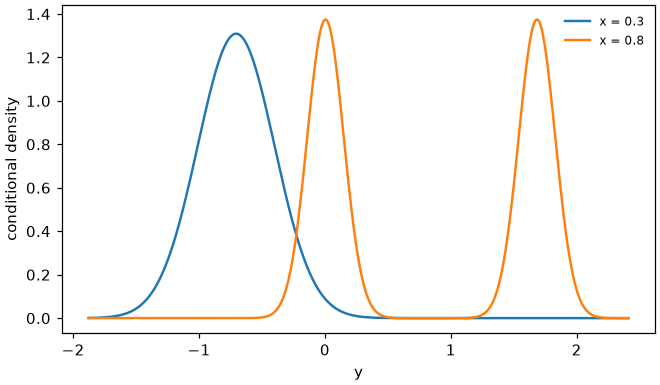
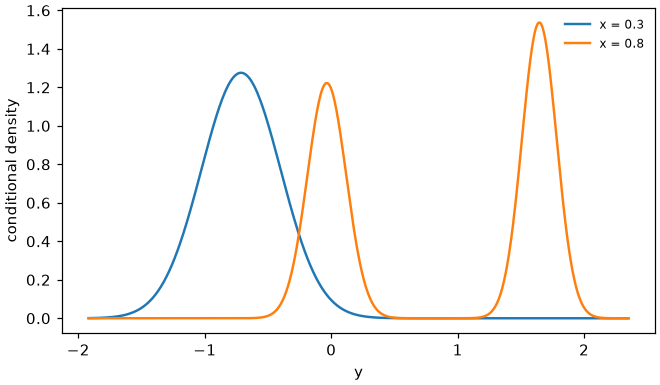
README: worked example with the data, a real agent run and the comparison with the true density

diff --git a/examples/plot_example.py b/examples/plot_example.py
@@ -1,0 +1,51 @@
+"""Figures of the README example (docs/example_data.png, docs/example_fit.png): the data of
+examples/branched.csv, and the estimate of the run in examples/example_run against the true
+conditional density. Run from the repository root."""
+from pathlib import Path
+
+import matplotlib
+matplotlib.use("Agg")
+import matplotlib.pyplot as plt
+import numpy as np
+import pandas as pd
+from scipy import stats
+
+import adr
+
+ROOT = Path(__file__).resolve().parents[1]
+df = pd.read_csv(ROOT / "examples" / "branched.csv")
+fit = adr.load(ROOT / "examples" / "example_run")
+
+
+def true_density(y, x):
+    m1, m2 = 10 * x * (x - .5) * (1.5 - x), 10 * x * (x - .5) * (.8 - x)
+    s = .3 * (1.3 - x)
+    return stats.norm.pdf(y, m1, s) if x < .5 else .5 * (stats.norm.pdf(y, m1, s) + stats.norm.pdf(y, m2, s))
+
+
+# the data
+fig, ax = plt.subplots(figsize=(6, 3.6), layout="constrained")
+ax.scatter(df.x, df.y, s=5, color="0.25", alpha=.5, linewidths=0)
+ax.set(xlabel="x", ylabel="y", title="examples/branched.csv: 1,000 observations")
+fig.savefig(ROOT / "docs" / "example_data.png", dpi=150)
+plt.close(fig)
+
+# the estimate against the truth
+fig, axes = plt.subplots(1, 2, figsize=(11, 3.8), layout="constrained",
+                         gridspec_kw={"width_ratios": [1.15, 1]})
+gx = np.linspace(df.x.min(), df.x.max(), 150)
+gy = np.linspace(df.y.min() - .3, df.y.max() + .3, 250)
+dens = np.array([np.exp(np.asarray(fit.distribution({"x": g}).logpdf(gy))) for g in gx])
+axes[0].pcolormesh(gx, gy, (dens / dens.max(axis=1, keepdims=True)).T, cmap="Blues", shading="auto")
+axes[0].scatter(df.x, df.y, s=3, color="black", alpha=.35, linewidths=0)
+axes[0].set(xlabel="x", ylabel="y", title="Estimated conditional density (scaled at each x) and data")
+yy = np.linspace(-2.2, 2.6, 600)
+for k, x0 in enumerate([0.3, 0.8]):
+    axes[1].plot(yy, true_density(yy, x0), color=f"C{k}", lw=2.2, alpha=.45, label=f"true, x = {x0}")
+    axes[1].plot(yy, np.exp(fit.distribution({"x": x0}).logpdf(yy)), color=f"C{k}", lw=1.4, ls="--",
+                 label=f"ADR, x = {x0}")
+axes[1].set(xlabel="y", ylabel="conditional density", title="True and estimated densities")
+axes[1].legend(frameon=False, fontsize=8)
+fig.savefig(ROOT / "docs" / "example_fit.png", dpi=150)
+plt.close(fig)
+print("wrote docs/example_data.png and docs/example_fit.png")

diff --git a/examples/example_run/model.py b/examples/example_run/model.py
@@ -1,0 +1,13 @@
+from adr.dist import Mixture, Normal, exp, log, sigmoid, maximum, abs
+
+
+def model(x):
+    t = x[0]
+    z = (t - 0.634068) / 0.087396
+    g = 0.087396 * (maximum(z, 0.0) + log(1.0 + exp(-abs(z))))
+    mu = (((((-47.466309) * t + 108.978164) * t + -86.112679) * t + 42.877879) * t + -9.908462) * t + -0.003241
+    sd1 = exp(((-1.325764) * t + -0.179717) * t + -0.994224)
+    sd2 = exp(((-0.858171) * t + -0.484573) * t + -0.935113)
+    w = sigmoid(0.114519)
+    return Mixture([w, 1.0 - w], [Normal(mu + -16.056164 * g, sd1), Normal(mu + -25.489746 * g, sd2)])
+

diff --git a/tests/test_adr.py b/tests/test_adr.py
@@ -178,3 +178,10 @@ def test_printing_and_plotting(tmp_path):
     q = fit.quantile({"x": 0.8}, [0.1, 0.5, 0.9])
     assert np.all(np.diff(q) > 0)
     fit.plot([{"x": 0.3}, {"x": 0.8}])
+
+
+def test_example_run_loads_and_matches_its_report():
+    fit = adr.load(EX / "example_run")
+    df = pd.read_csv(DATA)
+    assert np.all(np.isfinite(fit.logpdf(df.head(50))))
+    assert abs(fit.info["evaluation"]["nll"] - 0.2616) < 1e-3

diff --git a/README.md b/README.md
@@ -60,6 +60,69 @@ Without installing anything, you can ask Claude Code something like:
 
 Claude clones the repository and follows [CLAUDE.md](CLAUDE.md).
 
+## Example
+
+`examples/branched.csv` contains 1,000 simulated observations from the univariate design of the
+paper. For x < 0.5, y follows one noisy curve; from x = 0.5 on, it splits into two branches of
+equal probability, and the noise decreases with x:
+
+![The example data](docs/example_data.png)
+
+(The true model: X ~ Unif(0, 1); for x < 0.5, Y | x ~ N(m1(x), s(x)^2); for x >= 0.5, an equal
+mixture of N(m1(x), s(x)^2) and N(m2(x), s(x)^2), with m1(x) = 10x(x-0.5)(1.5-x),
+m2(x) = 10x(x-0.5)(0.8-x) and s(x) = 0.3(1.3-x).) The agent is not told any of this. We ran
+
+```
+/adr:adr examples/branched.csv -y y --budget 15
+```
+
+with Claude Opus 5.5; the output is in [examples/example_run](examples/example_run). The agent
+stopped after 3.9 minutes (cost 0.29 USD). From its [notes](examples/example_run/notes.md): it saw
+"one noisy trunk curve for x < ~0.6 [...], then [...] two roughly equal-weight branches",
+compared three families of models by 5-fold cross-validation, and chose a mixture of two normal
+distributions that share a polynomial mean until a smooth split point, estimated at x = 0.63:
+
+```python
+from adr.dist import Mixture, Normal, exp, log, sigmoid, maximum, abs
+
+
+def model(x):
+    t = x[0]
+    z = (t - 0.634068) / 0.087396
+    g = 0.087396 * (maximum(z, 0.0) + log(1.0 + exp(-abs(z))))
+    mu = (((((-47.466309) * t + 108.978164) * t + -86.112679) * t + 42.877879) * t + -9.908462) * t + -0.003241
+    sd1 = exp(((-1.325764) * t + -0.179717) * t + -0.994224)
+    sd2 = exp(((-0.858171) * t + -0.484573) * t + -0.935113)
+    w = sigmoid(0.114519)
+    return Mixture([w, 1.0 - w], [Normal(mu + -16.056164 * g, sd1), Normal(mu + -25.489746 * g, sd2)])
+```
+
+On the 200 held-out rows:
+
+| model | NLL |
+|---|---|
+| **ADR** | **0.262** |
+| linear Gaussian | 1.090 |
+| normal, no covariates | 1.380 |
+
+and the central 50% and 90% intervals cover 49.5% and 89.0% of the held-out responses. Since the
+data are simulated, the estimate can be compared with the truth: the estimated density follows
+the trunk and the two branches (left), and at x = 0.3, where the law has one mode, and at x = 0.8,
+where it has two, the estimated densities are close to the true ones (right).
+
+![Estimated and true conditional densities](docs/example_fit.png)
+
+To reproduce the evaluation without calling an agent, or to run the agent yourself:
+
+```bash
+adr fit examples/branched.csv -y y --program examples/example_run/model.py --out adr_runs/example
+adr fit examples/branched.csv -y y --budget 15 --out adr_runs/my_example     # a new agent run
+```
+
+`examples/` also contains `zero_inflated.csv` (about half exact zeros, a mixed response) and
+`counts.csv` (negative binomial counts, a discrete response); `make_examples.py` describes all
+three datasets.
+
 ## Command line: first `adr inspect`, then `adr fit`
 
 ```bash
@@ -165,14 +228,14 @@ In the output directory:
 `adr fit` saves the estimate in its output directory (`--out`, by default
 `adr_runs/<data>-<time>`): the program `model.py`, and `run.json` with the order of the
 covariates, the response type and the evaluation. `adr.load` reads this directory and gives you
-an object to use the estimate, without running the agent again. The examples below use the run
-of the example data (`--out adr_runs/example`, see [Example](#example)).
+an object to use the estimate, without running the agent again. The outputs below are those of
+the [example](#example).
 
 **Load the estimate and look at it.**
 
 ```python
 import adr
-fit = adr.load("adr_runs/example")   # the output directory of `adr fit`
+fit = adr.load("examples/example_run")   # the output directory of `adr fit`
 print(fit)
 ```
 
@@ -180,34 +243,27 @@ print(fit)
 ADR estimate of y given 1 covariate (examples/branched.csv)
   covariates: x[0] = x
   response type: continuous
-  held-out NLL: 0.2443 (normal, no covariates: 1.3795; linear Gaussian: 1.0903)
+  held-out NLL: 0.2616 (normal, no covariates: 1.3795; linear Gaussian: 1.0903)
   program (model.py):
-
-    from adr.dist import Normal, Mixture, maximum
-
-    def model(x):
-        t = x[0]
-        up = ((-9.911676 * t + 19.820231) * t - 7.408399) * t + 0.001434
-        lo = up - 8.394843 * maximum(t - 0.352661, 0.0) ** 2
-        sd = maximum(0.400441 - 0.319172 * t, 0.02)
-        return Mixture([0.5, 0.5], [Normal(up, sd), Normal(lo, sd)])
+    ...
 ```
 
 **The estimated distribution at given values of the covariates.** Pass the covariates by
 name, as in the csv:
 
 ```python
-d = fit.distribution({"x": 0.8})
-print(d)
+print(fit.distribution({"x": 0.3}))
+print(fit.distribution({"x": 0.8}))
 ```
 
 ```
-Mixture(weights=[0.5, 0.5]; Normal(loc=1.685, scale=0.1451), Normal(loc=0.004974, scale=0.1451))
+Mixture(weights=[0.5286, 0.4714]; Normal(loc=-0.7048, scale=0.3112), Normal(loc=-0.7226, scale=0.3142))
+Mixture(weights=[0.5286, 0.4714]; Normal(loc=1.646, scale=0.1372), Normal(loc=-0.03464, scale=0.1538))
 ```
 
-that is, at x = 0.8 the estimated law of y is an equal mixture of two normal distributions
-centered at 1.69 and 0.00. To plot the estimated conditional densities at some values of the
-covariates:
+At x = 0.3 the two components almost coincide (one mode near -0.71); at x = 0.8 they are
+centered at 1.65 and -0.03, the two branches. To plot the estimated conditional densities at
+some values of the covariates:
 
 ```python
 fit.plot([{"x": 0.3}, {"x": 0.8}])
@@ -219,8 +275,9 @@ fit.plot([{"x": 0.3}, {"x": 0.8}])
 
 ```python
 import numpy as np
-d.cdf(1.0)                                   # P(Y <= 1 | x = 0.8): 0.50
-fit.quantile({"x": 0.8}, [0.1, 0.5, 0.9])    # conditional quantiles: -0.12, 0.84, 1.81
+d = fit.distribution({"x": 0.8})
+d.cdf(1.0)                                   # P(Y <= 1 | x = 0.8): 0.47
+fit.quantile({"x": 0.8}, [0.1, 0.5, 0.9])    # conditional quantiles: -0.16, 1.43, 1.77
 d.sample(np.random.default_rng(0), 1000)     # 1000 simulated responses at x = 0.8
 d.logpdf(np.array([1.7]))                    # log density at y = 1.7
 ```
@@ -270,21 +327,6 @@ response, `fit.plot` draws the probabilities P(Y = y | x).
 - **Requirements.** Python 3.10 or later, and Claude Code (the `claude` command) logged in or
   with an `ANTHROPIC_API_KEY`. Covariates must be numeric (encode categories as 0/1
   indicators); mixed and discrete responses must be univariate.
-
-## Example
-
-`examples/` contains three simulated datasets (`make_examples.py` describes them):
-`branched.csv`, the continuous design of the paper, whose conditional law changes from one to two
-branches at x = 0.5; `zero_inflated.csv`, with about half exact zeros; and `counts.csv`, negative
-binomial counts. To check the installation without calling an agent:
-
-```bash
-adr fit examples/branched.csv -y y --program examples/branched_program.py --out adr_runs/example
-adr fit examples/zero_inflated.csv -y y --mixed --program examples/zero_inflated_program.py --out adr_runs/example_mixed
-adr fit examples/counts.csv -y y --discrete --program examples/counts_program.py --out adr_runs/example_counts
-```
-
-and, to run the agent, drop `--program`.
 
 ## Citation
 

diff --git a/examples/example_run/report.md b/examples/example_run/report.md
@@ -1,0 +1,86 @@
+# ADR run: `examples/branched.csv`
+
+Response: `y`. Covariates (1): `x`.
+Training rows: 800; held-out rows: 200.
+Response type: continuous (density with respect to Lebesgue measure).
+
+## Agent run
+
+- model: `claude-opus-5-5`; time budget: 15 minutes
+- status: finished, after 3.9 minutes and 11 turns
+- cost reported by Claude Code: 0.2902 USD
+- output contract: satisfied
+- audit flags: 0
+
+## Held-out evaluation
+
+Mean negative log-likelihood on the held-out rows (lower is better):
+
+| model | NLL |
+|---|---|
+| **ADR** | **0.2616** |
+| normal, no covariates | 1.3795 |
+| linear Gaussian | 1.0903 |
+
+Coverage of the central 50% and 90% intervals on held-out rows: 49.5% and 89.0% (nominal 50% and 90%).
+
+![calibration.png](calibration.png)
+
+![density.png](density.png)
+
+## Returned program
+
+In `model.py`, `x[j]` is the j-th covariate in this order: `x[0]` = `x`.
+
+```python
+from adr.dist import Mixture, Normal, exp, log, sigmoid, maximum, abs
+
+
+def model(x):
+    t = x[0]
+    z = (t - 0.634068) / 0.087396
+    g = 0.087396 * (maximum(z, 0.0) + log(1.0 + exp(-abs(z))))
+    mu = (((((-47.466309) * t + 108.978164) * t + -86.112679) * t + 42.877879) * t + -9.908462) * t + -0.003241
+    sd1 = exp(((-1.325764) * t + -0.179717) * t + -0.994224)
+    sd2 = exp(((-0.858171) * t + -0.484573) * t + -0.935113)
+    w = sigmoid(0.114519)
+    return Mixture([w, 1.0 - w], [Normal(mu + -16.056164 * g, sd1), Normal(mu + -25.489746 * g, sd2)])
+```
+
+## Notes of the agent
+
+# Notes
+
+Data: y follows one noisy trunk curve for x < ~0.6 (noise sd larger at small x), then splits
+into two roughly equal-weight branches: an upper one rising to ~2.5 and a lower one falling to ~-1 at x=1.
+
+Validation: 5-fold CV (fixed random split), MLE refitted per fold with BFGS + random restarts.
+
+Candidates (mean CV NLL):
+- A: 2-Normal mixture, independent polynomial means, log-sd polynomials, logistic weight in x:
+  (3,1) 0.2196, (4,1) 0.2141, (4,2) 0.2204, (5,2) 0.2204
+- B: shared trunk polynomial mu(x) (deg dm) + branch offsets a_k * g(x), where
+  g = softplus split ramp at a learned point t0 (~0.63) with learned width; log-sd quadratic per
+  component, constant weight:
+  (3,1) 0.215, (4,1) 0.2185, (5,1) 0.2132, (5,2) 0.2107
+
+- C: B(5,2) with Student-t components: nu -> ~1800 (Gaussian), CV 0.2097, no real gain; kept Normal.
+
+Chosen: B(5,2): it builds in the branching structure (one curve before the split, two after) and
+had the best CV. ~22 fitted constants. Train NLL 0.186, CV 0.2107.
+
+expected_nll: 0.215
+
+## Using the estimate
+
+```python
+import adr
+fit = adr.load("examples/example_run")   # this directory
+print(fit)                     # summary and program
+d = fit.distribution({"x": ...})   # covariates by name
+print(d)                       # the estimated distribution at these covariates
+d.cdf(y); d.ppf(0.9); d.sample(rng, 100)
+fit.plot([{"x": ...}, ...])   # conditional densities at some covariate values
+```
+
+Another run on the same data may return a different program. Method: Tedesco and Finazzi, *Agentic Distributional Regression*, arXiv:2610.37611.

diff --git a/examples/example_run/notes.md b/examples/example_run/notes.md
@@ -1,0 +1,21 @@
+# Notes
+
+Data: y follows one noisy trunk curve for x < ~0.6 (noise sd larger at small x), then splits
+into two roughly equal-weight branches: an upper one rising to ~2.5 and a lower one falling to ~-1 at x=1.
+
+Validation: 5-fold CV (fixed random split), MLE refitted per fold with BFGS + random restarts.
+
+Candidates (mean CV NLL):
+- A: 2-Normal mixture, independent polynomial means, log-sd polynomials, logistic weight in x:
+  (3,1) 0.2196, (4,1) 0.2141, (4,2) 0.2204, (5,2) 0.2204
+- B: shared trunk polynomial mu(x) (deg dm) + branch offsets a_k * g(x), where
+  g = softplus split ramp at a learned point t0 (~0.63) with learned width; log-sd quadratic per
+  component, constant weight:
+  (3,1) 0.215, (4,1) 0.2185, (5,1) 0.2132, (5,2) 0.2107
+
+- C: B(5,2) with Student-t components: nu -> ~1800 (Gaussian), CV 0.2097, no real gain; kept Normal.
+
+Chosen: B(5,2): it builds in the branching structure (one curve before the split, two after) and
+had the best CV. ~22 fitted constants. Train NLL 0.186, CV 0.2107.
+
+expected_nll: 0.215
